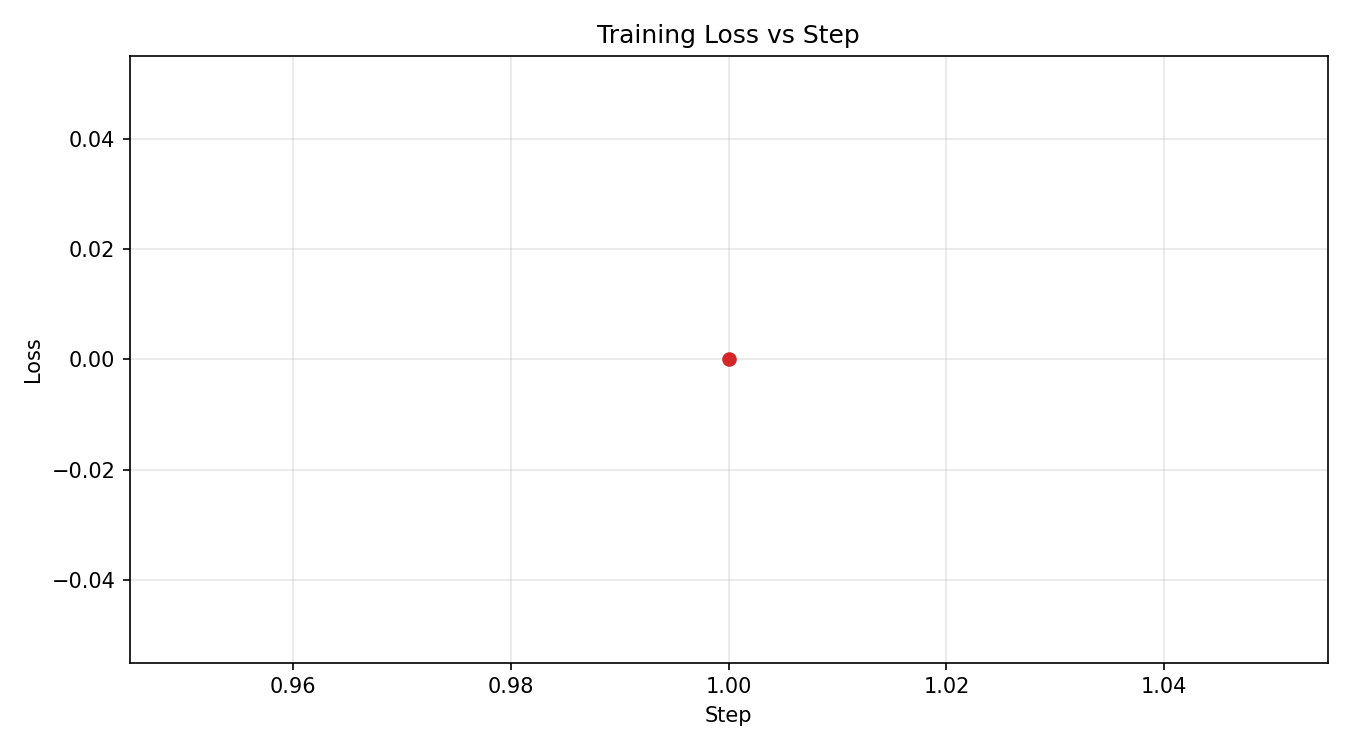
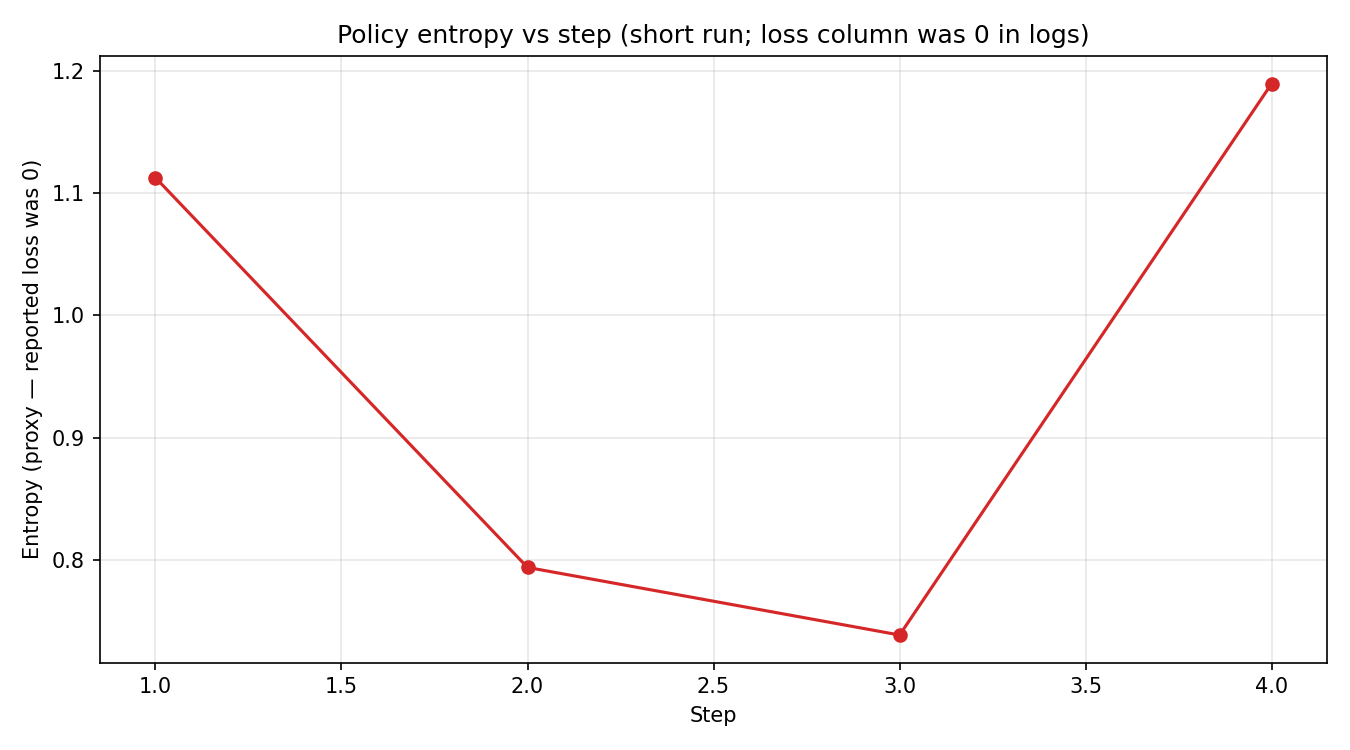
final final

diff --git a/training/plot_metrics.py b/training/plot_metrics.py
@@ -53,6 +53,7 @@ def _plot_training_curves(plt, history: list[dict], assets_dir: Path) -> list[Pa
     steps = []
     rewards = []
     losses = []
+    entropies: list[tuple[int, float]] = []
     for row in history:
         step = row.get("step") if isinstance(row, dict) else None
         if step is None:
@@ -69,7 +70,7 @@ def _plot_training_curves(plt, history: list[dict], assets_dir: Path) -> list[Pa
                 reward_val = float(row[key])
                 break
 
-        loss_keys = ["loss", "train/loss", "policy_loss", "objective/kl"]
+        loss_keys = ["loss", "train/loss", "policy_loss", "objective/kl", "train_loss"]
         loss_val = None
         for key in loss_keys:
             if key in row and isinstance(row[key], (int, float)):
@@ -81,11 +82,17 @@ def _plot_training_curves(plt, history: list[dict], assets_dir: Path) -> list[Pa
             rewards.append(reward_val)
         if loss_val is not None:
             losses.append((step_val, loss_val))
+        if "entropy" in row and isinstance(row["entropy"], (int, float)):
+            entropies.append((step_val, float(row["entropy"])))
 
     if rewards:
         plt.figure(figsize=(9, 5))
         plt.plot(steps, rewards, marker="o", linewidth=1.5)
-        plt.title("Training Reward vs Step")
+        flat_r = len(rewards) > 0 and all(r == rewards[0] for r in rewards)
+        plt.title(
+            "Training reward vs step"
+            + (" (flat — short run; use eval/baselines for env-scale signal)" if flat_r else "")
+        )
         plt.xlabel("Step")
         plt.ylabel("Reward")
         plt.grid(alpha=0.3)
@@ -98,11 +105,21 @@ def _plot_training_curves(plt, history: list[dict], assets_dir: Path) -> list[Pa
     if losses:
         x = [xv for xv, _ in losses]
         y = [yv for _, yv in losses]
+        # TRL sometimes logs 0 loss on very short GRPO runs; entropy still moves — plot it
+        # so the chart is a faithful readout, not a blank line.
+        if all(v == 0.0 for v in y) and entropies:
+            x = [a for a, _ in entropies]
+            y = [b for _, b in entropies]
+            y_label = "Entropy (proxy — reported loss was 0)"
+            plot_title = "Policy entropy vs step (short run; loss column was 0 in logs)"
+        else:
+            y_label = "Loss"
+            plot_title = "Training loss vs step"
         plt.figure(figsize=(9, 5))
         plt.plot(x, y, marker="o", linewidth=1.5, color="tab:red")
-        plt.title("Training Loss vs Step")
+        plt.title(plot_title)
         plt.xlabel("Step")
-        plt.ylabel("Loss")
+        plt.ylabel(y_label)
         plt.grid(alpha=0.3)
         out = assets_dir / "loss_curve.png"
         plt.tight_layout()

diff --git a/server/app.py b/server/app.py
@@ -53,8 +53,16 @@ if not _has_route_path(app, "/health"):
         """Readiness endpoint for Spaces/Colab probes."""
         return {"status": "ok"}
 
-_BLOG_FILE = os.path.join(os.path.dirname(__file__), "static", "blog.md")
-if os.path.isfile(_BLOG_FILE) and not _has_route_path(app, "/blog.md"):
+_REPO_ROOT = os.path.abspath(os.path.join(os.path.dirname(__file__), ".."))
+_BLOG_FILE = None
+for _candidate in (
+    os.path.join(_REPO_ROOT, "blog.md"),
+    os.path.join(os.path.dirname(__file__), "static", "blog.md"),
+):
+    if os.path.isfile(_candidate):
+        _BLOG_FILE = _candidate
+        break
+if _BLOG_FILE is not None and not _has_route_path(app, "/blog.md"):
 
     @app.get("/blog.md")
     def blog_markdown() -> FileResponse:

diff --git a/README.md b/README.md
@@ -16,10 +16,12 @@ short_description: Shin-chan OpenEnv RL with TRL GRPO training and Gradio UI.
 | Resource | Link |
 |----------|------|
 | **Hugging Face Space (cards)** | [https://huggingface.co/spaces/Gladiator-codes/sinchan-env](https://huggingface.co/spaces/Gladiator-codes/sinchan-env) |
-| **Space runtime (Gradio + OpenEnv)** | [https://gladiator-codes-sinchan-env.hf.space/web/](https://gladiator-codes-sinchan-env.hf.space/web/) |
-| **Colab (end-to-end training)** | [Open `training/ShinChan_GRPO_Training.ipynb` in Colab](https://colab.research.google.com/github/Sarthaks-24/sinchan_env/blob/main/training/ShinChan_GRPO_Training.ipynb) |
+| **Space runtime (primary UI—best UX)** | [https://gladiator-codes-sinchan-env.hf.space/play](https://gladiator-codes-sinchan-env.hf.space/play) → `/sinchan-ui/` |
+| **Space runtime (OpenEnv lab / Gradio)** | [https://gladiator-codes-sinchan-env.hf.space/web/](https://gladiator-codes-sinchan-env.hf.space/web/) · [`/gradio`](https://gladiator-codes-sinchan-env.hf.space/gradio) |
+| **Colab (end-to-end training)** | [Open submission notebook in Google Colab](https://colab.research.google.com/drive/1BF3I0M1Md2hG_rq7oldPVD-dJHsdLl0g?usp=sharing) (source: `training/ShinChan_GRPO_Training.ipynb` in this repo) |
 | **Repository** | [https://github.com/Sarthaks-24/sinchan_env](https://github.com/Sarthaks-24/sinchan_env) |
 | **Mini blog (served on the Space)** | [https://gladiator-codes-sinchan-env.hf.space/blog.md](https://gladiator-codes-sinchan-env.hf.space/blog.md) |
+| **Blog source in repo** | [`blog.md`](https://github.com/Sarthaks-24/sinchan_env/blob/main/blog.md) (same text as `GET /blog.md` on the Space) |
 
 > **No large model weights in git.** Upload checkpoints to a Hub model repo and link them here; this repo only stores scripts, small JSON/MD evidence, and small PNGs.
 
@@ -84,6 +86,8 @@ python training/preflight_space.py --base-url https://gladiator-codes-sinchan-en
 
 ## 5. Results (evidence: real training)
 
+**Committed sample charts:** `assets/reward_curve_total.png`, `assets/loss_curve.png`, and `assets/baseline_comparison.png` are produced by `training/plot_metrics.py` from a real short local/CPU run and a small eval — refresh them after longer training if you want stronger curves (see `assets/README.md`).
+
 After a run, you should have:
 
 - `training/artifacts/<run>/metrics.jsonl` - one JSON object per `on_log` (from `train_sinchan.py`)
@@ -126,9 +130,10 @@ Fill the numeric columns after you run `stage4_evaluate.py` and paste from `eval
 
 ## 7. Hugging Face Space / UI
 
-- **OpenEnv:** `/web` (when `ENABLE_WEB_INTERFACE` is on), `/health` for probes.
-- **Crayon static UI:** `/play` -> `/sinchan-ui/`.
-- **Gradio (required simple UI):** **`/gradio`** - new episode, action, state, **reward** JSON.
+- **Main runtime UI (recommended):** **`/play`** — redirects to **`/sinchan-ui/`** (crayon-style experience; use this for demos and the “best” end-user UI).
+- **OpenEnv lab:** `/web` (when `ENABLE_WEB_INTERFACE` is on) — full OpenEnv playground.
+- **Gradio (simple state / action / reward):** **`/gradio`** — new episode, action, state, **reward** JSON.
+- **Probes:** `/health` for load checks.
 
 **Deploy:** from repo root, use OpenEnv push (or your existing Docker Space):
 
@@ -136,7 +141,7 @@ Fill the numeric columns after you run `stage4_evaluate.py` and paste from `eval
 openenv push --repo-id Gladiator-codes/sinchan-env .
 ```
 
-**Blog on Space:** `GET /blog.md` (file `server/static/blog.md`).
+**Blog on Space:** `GET /blog.md` (serves repository root `blog.md` when present, else `server/static/blog.md`).
 
 ### Docker Space: generic Hub page / "app not loading"
 
@@ -146,7 +151,7 @@ If the Space shows a **generic Hugging Face shell** or your UI never appears:
 
 1. Open **Build logs** and **Runtime (container) logs** -- import errors, missing dependencies, or a crash on startup mean the proxy has nothing to route to; fix those first.
 2. In the Space **Settings -> App**, set the **port** to **7860** so it matches `app_port` in this README, `openenv.yaml`, `EXPOSE` in the `Dockerfile`, and the `PORT` your container listens on.
-3. After deploy, wait out a cold start (free tier can take a few minutes), then check `GET /health` (should be `200` with `{"status":"ok"}`) and open **`/gradio`** or **`/web`** on the same host -- the main UIs are **not** necessarily at the repo name's short URL without a path.
+3. After deploy, wait out a cold start (free tier can take a few minutes), then check `GET /health` (should be `200`) and open **`/play`** (primary UI) or **`/gradio`** / **`/web`** on the same host — the main UIs are **not** necessarily at the repo name's short URL without a path.
 4. **Local proof** the image runs: from the repo root, `docker build -t sinchan-test .` then `docker run --rm -e PORT=7860 -p 7860:7860 sinchan-test` and open `http://127.0.0.1:7860/health`.
 
 ---
@@ -157,7 +162,7 @@ If the Space shows a **generic Hugging Face shell** or your UI never appears:
 pip install -e .
 # PowerShell: $env:ENV_URL="http://127.0.0.1:8000"
 uv run server
-# Open: http://localhost:8000/web  |  http://localhost:8000/gradio  |  http://localhost:8000/blog.md
+# Open: http://localhost:8000/play  |  http://localhost:8000/web  |  http://localhost:8000/gradio  |  http://localhost:8000/blog.md
 ```
 
 ```bash

diff --git a/assets/README.md b/assets/README.md
@@ -1,18 +1,23 @@
 # Plot assets (submission)
 
-PNG charts are **not** committed as large binaries from CI by default. Generate them locally or in Colab after a real run:
+PNG charts in this folder are small and safe to commit for judges. **Current committed PNGs** (regenerate any time) come from a **real short local run** (CPU, few GRPO steps) plus a quick `evaluate_scenarios.py` pass, then `plot_metrics.py`. Training artifacts under `training/artifacts/` stay gitignored.
+
+**Windows + TRL:** if import fails with `UnicodeDecodeError` on `.jinja` files, set `PYTHONUTF8=1` (or `PYTHONIOENCODING=utf-8`) for the training command.
+
+**Regenerate (typical / Colab) run:**
 
 ```bash
+# After training, from repo root
 python training/plot_metrics.py \
   --run-dir training/artifacts/run1 \
   --eval-summary training/artifacts/eval_summary.json \
   --assets-dir assets
 ```
 
-Expected outputs:
+**Files:**
 
-- `reward_curve_total.png` — from `metrics.jsonl` / `trainer_state.json` reward keys.
-- `loss_curve.png` — from logged `loss` / `train/loss` keys.
+- `reward_curve_total.png` — from `metrics.jsonl` / `trainer_state.json` reward keys. Very short runs can look **flat**; the title notes that if so.
+- `loss_curve.png` — from `loss` in logs, or (when loss is all zeros) **policy entropy** from the same rows so a short run still has a useful curve.
 - `baseline_comparison.png` — from `evaluate_scenarios.py` JSON (`random` vs `rule_based`).
 
-The Colab notebook includes a cell that runs the same plotting command. Commit the resulting small PNGs for judges (typically well under 1 MB total).
+The Colab notebook can run the same plotting command after your full training. Keep total PNG size small (well under 1 MB combined).

diff --git a/WHAT_TO_DO_NEXT.md b/WHAT_TO_DO_NEXT.md
@@ -25,11 +25,11 @@ After this repository and Space are in good shape, follow these steps in order. 
 6. [ ] Run:  
    `python training/preflight_space.py --base-url <RUNTIME_BASE_URL> --retries 5`  
    from this repo. All checks should pass.
-7. [ ] In the browser, verify: `<RUNTIME_BASE_URL>/gradio`, `<RUNTIME_BASE_URL>/blog.md`, and `<RUNTIME_BASE_URL>/web` (or your chosen OpenEnv route).
+7. [ ] In the browser, verify: `<RUNTIME_BASE_URL>/play` (primary UI), `<RUNTIME_BASE_URL>/gradio`, `<RUNTIME_BASE_URL>/blog.md`, and `<RUNTIME_BASE_URL>/web` (or your chosen OpenEnv route).
 
 ## C. Colab: end-to-end training proof
 
-1. [ ] Open `training/ShinChan_GRPO_Training.ipynb` in **Google Colab** (link in README).
+1. [ ] Open the **submission** Colab: https://colab.research.google.com/drive/1BF3I0M1Md2hG_rq7oldPVD-dJHsdLl0g?usp=sharing (same project as `training/ShinChan_GRPO_Training.ipynb` in the repo; link also in README).
 2. [ ] **Runtime → Change runtime type → GPU** (T4 is enough). CPU training is possible but very slow and QLoRA will not work.
 3. [ ] First cell: updates `openenv-core[core]>=0.2.3` and installs **TRL, transformers, jmespath, matplotlib** (and for QLoRA: `peft`, `bitsandbytes` when you add the optional cell).
 4. [ ] Set `ENV_URL` to the **Space runtime** URL from B.5 (not the `huggingface.co/spaces/...` repo page).

diff --git a/RUNBOOK.md b/RUNBOOK.md
@@ -71,7 +71,8 @@ If `openenv` is on your `PATH`, you can use `openenv push ...` instead. Do **not
 ### 3.4 Check Space health
 
 - Space card: [Gladiator-codes/sinchan-env](https://huggingface.co/spaces/Gladiator-codes/sinchan-env)
-- **Web UI (Gradio + OpenEnv):** [https://gladiator-codes-sinchan-env.hf.space/web/](https://gladiator-codes-sinchan-env.hf.space/web/)  
+- **Main runtime UI (crayon):** [https://gladiator-codes-sinchan-env.hf.space/play](https://gladiator-codes-sinchan-env.hf.space/play) → `/sinchan-ui/`
+- **OpenEnv lab + Gradio:** [https://gladiator-codes-sinchan-env.hf.space/web/](https://gladiator-codes-sinchan-env.hf.space/web/) · [`/gradio`](https://gladiator-codes-sinchan-env.hf.space/gradio)
 - **`ENV_URL` / preflight (HTTP base only, no path):** `https://gladiator-codes-sinchan-env.hf.space`  
   (If the short URL is stuck in “space in error” while a build is healthy, try the **revision** hostname from the browser address bar; it can include a middle hash segment that **changes** after each rebuild. Copy that host for `ENV_URL` if preflight or training cannot connect.)
 - Check logs until app is healthy
